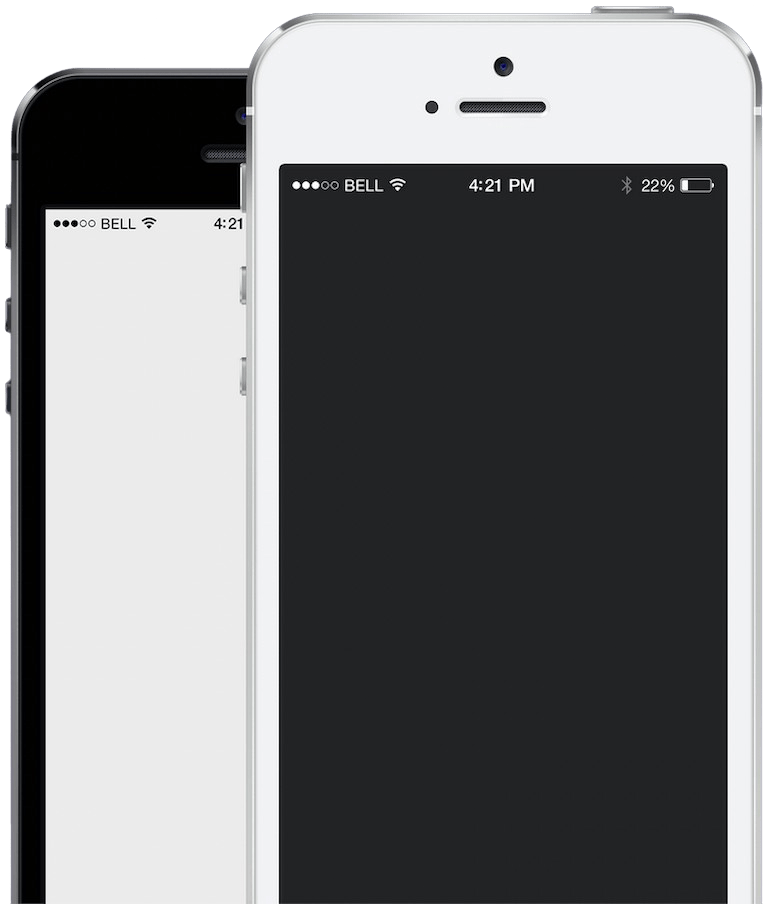
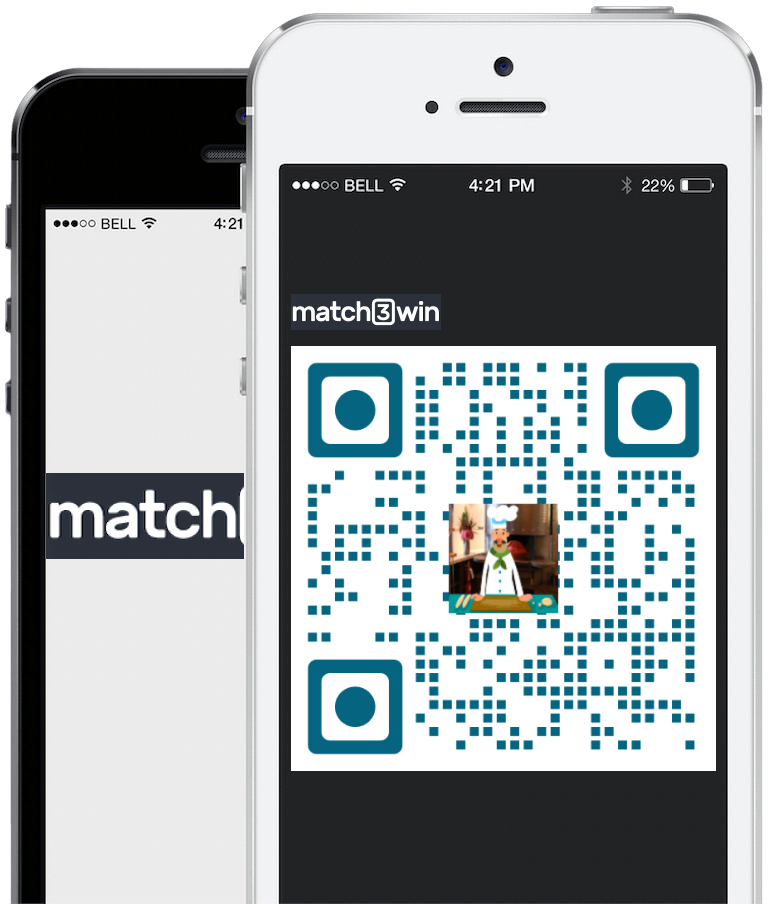
changes

Changed region(s): [[0.375, 0.3097, 0.9375, 0.8673], [0.0625, 0.4956, 0.3438, 0.6195]]

diff --git a/app/qr/[url]/page.jsx b/app/qr/[url]/page.jsx
@@ -1,0 +1,166 @@
+'use client';
+import ContainerWrapper from '@/components/container-wrapper';
+import React, { useState } from 'react';
+import { Button } from '@/components/ui/button';
+import {
+  Form,
+  FormControl,
+  FormField,
+  FormItem,
+  FormLabel,
+  FormMessage,
+} from '@/components/ui/form';
+import { Input } from '@/components/ui/input';
+import { useForm } from 'react-hook-form';
+import { zodResolver } from '@hookform/resolvers/zod';
+
+import * as z from 'zod';
+import PhoneInput from 'react-phone-number-input';
+import { Label } from '@/components/ui/label';
+import Link from 'next/link';
+import Image from 'next/image';
+
+const formSchema = z.object({
+  name: z.string().min(1, { message: 'Required' }),
+  phone: z.string().min(1, { message: 'Required' }),
+  email: z.string().email(z.string().min(1, { message: 'Required' })),
+});
+
+const QRForm = () => {
+  const [loading, setLoading] = useState(false);
+  const [success, setSuccess] = useState(false);
+  const [error, setError] = useState(false);
+
+  const form = useForm({
+    resolver: zodResolver(formSchema),
+    defaultValues: {
+      name: '',
+      phone: '',
+      email: '',
+    },
+  });
+
+  const onSubmit = async (data) => {
+    setLoading(true);
+    setError(false);
+    setSuccess(false);
+    fetch('/api/mail', {
+      method: 'POST',
+      headers: {
+        'Content-Type': 'application/json',
+      },
+      body: JSON.stringify(data),
+    })
+      .then((response) => {
+        console.log(response);
+        if (response.status === 200) {
+          setLoading(false);
+          setSuccess(true);
+        } else {
+          setLoading(false);
+          setError(true);
+        }
+        form.reset();
+      })
+      .catch((error) => {
+        setLoading(false);
+        setError(true);
+      });
+  };
+  return (
+    <ContainerWrapper className="">
+      <div className="flex items-center flex-col justify-center min-h-screen">
+        <div className="flex flex-col items-center bg-secondary text-white py-8 rounded-md px-4">
+          <Link href="/">
+            <Image src="/logo.png" alt="logo" height={50} width={135} />
+          </Link>
+          <Form {...form}>
+            <form
+              onSubmit={form.handleSubmit(onSubmit)}
+              className="font-light w-[350px] flex flex-col gap-3"
+            >
+              <FormField
+                name="name"
+                control={form.control}
+                render={({ field }) => (
+                  <FormItem>
+                    <Label>Full Name</Label>
+                    <FormControl>
+                      <Input
+                        className="h-[54px] "
+                        placeholder="Enter Your Name"
+                        {...field}
+                      />
+                    </FormControl>
+                    <FormMessage className="font-light text-sm" />
+                  </FormItem>
+                )}
+              />
+              <FormField
+                name="email"
+                control={form.control}
+                render={({ field }) => (
+                  <FormItem>
+                    <Label>Email Address</Label>
+                    <FormControl>
+                      <Input
+                        className="h-[54px] "
+                        placeholder="Enter Your Email"
+                        {...field}
+                      />
+                    </FormControl>
+                    <FormMessage className="font-light text-sm" />
+                  </FormItem>
+                )}
+              />
+              <FormField
+                name="phone"
+                control={form.control}
+                render={({ field }) => (
+                  <FormItem>
+                    <Label>Mobile No</Label>
+                    <FormControl>
+                      <PhoneInput
+                        className="h-[54px] border rounded-md pl-3 bg-white"
+                        placeholder="(000) 000-00000"
+                        {...field}
+                      />
+                    </FormControl>
+                    <FormMessage className="font-light text-sm" />
+                  </FormItem>
+                )}
+              />
+
+              {success && (
+                <div className="mt-3">
+                  <p className="text-sm text-green-500">
+                    Your message has been sent.
+                  </p>
+                </div>
+              )}
+              {error && (
+                <div className="mt-3">
+                  <p className="text-sm text-red-500">
+                    Something went wrong. Please try again.
+                  </p>
+                </div>
+              )}
+
+              <div className="pt-4 gap-3">
+                <Button
+                  className="h-[54px] px-12 w-full"
+                  disabled={loading}
+                  type="submit"
+                >
+                  {loading ? 'LOADING...' : 'SEND'}
+                </Button>
+              </div>
+            </form>
+          </Form>
+        </div>
+      </div>
+    </ContainerWrapper>
+  );
+};
+
+export default QRForm;

diff --git a/app/api/mail/route.js b/app/api/mail/route.js
@@ -1,31 +1,38 @@
 import { NextResponse } from 'next/server';
 const sgMail = require('@sendgrid/mail');
 
-// sgMail.setApiKey(
-//   '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'
-// );
-
 sgMail.setApiKey(process.env.SENDGRID_API_KEY);
 
 export const POST = async (req, res) => {
   const body = await req.json();
+  const { name, business, phone, email, message } = body;
   try {
+    let html;
+    if (!business && !message) {
+      html = ` <div>
+      <h3>QR Form Details</h3>
+      <b>User Name:</b> ${name} <br />
+      <b>Phone:</b> ${phone} <br />
+      <b>Email:</b> ${email} <br />
+      </div>`;
+    } else {
+      html = ` <div>
+      <h3>Contact Form Details</h3>
+      <b>User Name:</b> ${name} <br />
+      <b>Business Name:</b> ${business} <br />
+      <b>Phone:</b> ${phone} <br />
+      <b>Email:</b> ${email} <br />
+      <b>Message:</b> <br /> ${message}
+      </div>`;
+    }
     const msg = {
       to: process.env.TO_EMAIL,
       from: process.env.FROM_EMAIL,
       subject: 'match3win',
       text: 'test',
-      html: `
-      <div>
-        <b>User Name:</b> ${body.name} <br />
-        <b>Business Name:</b> ${body.business} <br />
-        <b>Phone:</b> ${body.phone} <br />
-        <b>Email:</b> ${body.email} <br />
-        <b>Message:</b> <br /> ${body.message}
-      </div>
-      `,
+      html,
     };
-    const mail = await sgMail.send(msg);
+    let mail = await sgMail.send(msg);
     return new NextResponse(JSON.stringify(mail, { status: 200 }));
   } catch (error) {
     return new NextResponse(error, { status: 401 });

diff --git a/components/ui/input.jsx b/components/ui/input.jsx
@@ -1,19 +1,20 @@
-import * as React from "react"
+import * as React from 'react';
 
-import { cn } from "@/lib/utils"
+import { cn } from '@/lib/utils';
 
 const Input = React.forwardRef(({ className, type, ...props }, ref) => {
   return (
-    (<input
+    <input
       type={type}
       className={cn(
-        "flex h-10 w-full rounded-md border border-input bg-background px-3 py-2 text-sm ring-offset-background file:border-0 file:bg-transparent file:text-sm file:font-medium placeholder:text-muted-foreground focus-visible:outline-none focus-visible:ring-2 focus-visible:ring-ring focus-visible:ring-offset-2 disabled:cursor-not-allowed disabled:opacity-50",
+        'flex h-10 w-full rounded-md border border-input bg-background px-3 py-2 text-sm ring-offset-background file:border-0 file:bg-transparent file:text-sm file:font-medium placeholder:text-muted-foreground focus-visible:outline-none focus-visible:ring-ring focus-visible:ring-offset-2 disabled:cursor-not-allowed disabled:opacity-50',
         className
       )}
       ref={ref}
-      {...props} />)
+      {...props}
+    />
   );
-})
-Input.displayName = "Input"
+});
+Input.displayName = 'Input';
 
-export { Input }
+export { Input };

diff --git a/components/ui/textarea.jsx b/components/ui/textarea.jsx
@@ -1,18 +1,19 @@
-import * as React from "react"
+import * as React from 'react';
 
-import { cn } from "@/lib/utils"
+import { cn } from '@/lib/utils';
 
 const Textarea = React.forwardRef(({ className, ...props }, ref) => {
   return (
-    (<textarea
+    <textarea
       className={cn(
-        "flex min-h-[80px] w-full rounded-md border border-input bg-background px-3 py-2 text-sm ring-offset-background placeholder:text-muted-foreground focus-visible:outline-none focus-visible:ring-2 focus-visible:ring-ring focus-visible:ring-offset-2 disabled:cursor-not-allowed disabled:opacity-50",
+        'flex min-h-[80px] w-full rounded-md border border-input bg-background px-3 py-2 text-sm ring-offset-background placeholder:text-muted-foreground focus-visible:outline-none focus-visible:ring-ring focus-visible:ring-offset-2 disabled:cursor-not-allowed disabled:opacity-50',
         className
       )}
       ref={ref}
-      {...props} />)
+      {...props}
+    />
   );
-})
-Textarea.displayName = "Textarea"
+});
+Textarea.displayName = 'Textarea';
 
-export { Textarea }
+export { Textarea };

diff --git a/sections/contact-us.jsx b/sections/contact-us.jsx
@@ -17,6 +17,7 @@ import { zodResolver } from '@hookform/resolvers/zod';
 import * as z from 'zod';
 import { Textarea } from '@/components/ui/textarea';
 import Image from 'next/image';
+import PhoneInput from 'react-phone-number-input';
 
 const formSchema = z.object({
   name: z.string().min(1, { message: 'Required' }),
@@ -163,9 +164,9 @@ const ContactSection = ({ id }) => {
                       render={({ field }) => (
                         <FormItem>
                           <FormControl>
-                            <Input
-                              className="h-[54px]"
-                              placeholder="Your Mobile Number"
+                            <PhoneInput
+                              className="h-[54px] border rounded-md pl-3 bg-white"
+                              placeholder="(000) 000-00000"
                               {...field}
                             />
                           </FormControl>

diff --git a/app/globals.css b/app/globals.css
@@ -93,3 +93,17 @@ p {
     bottom: 0px !important;
   }
 }
+
+input,
+textarea,
+input:focus {
+  @apply outline-none;
+}
+
+.PhoneInputInput {
+  @apply h-full outline-none px-2;
+}
+
+.PhoneInputCountry {
+  @apply text-secondary;
+}

diff --git a/app/layout.js b/app/layout.js
@@ -1,6 +1,7 @@
 import { Rubik } from 'next/font/google';
 import './globals.css';
 import Navbar from '@/components/navbar';
+import 'react-phone-number-input/style.css';
 
 const rubik = Rubik({
   subsets: ['latin'],
